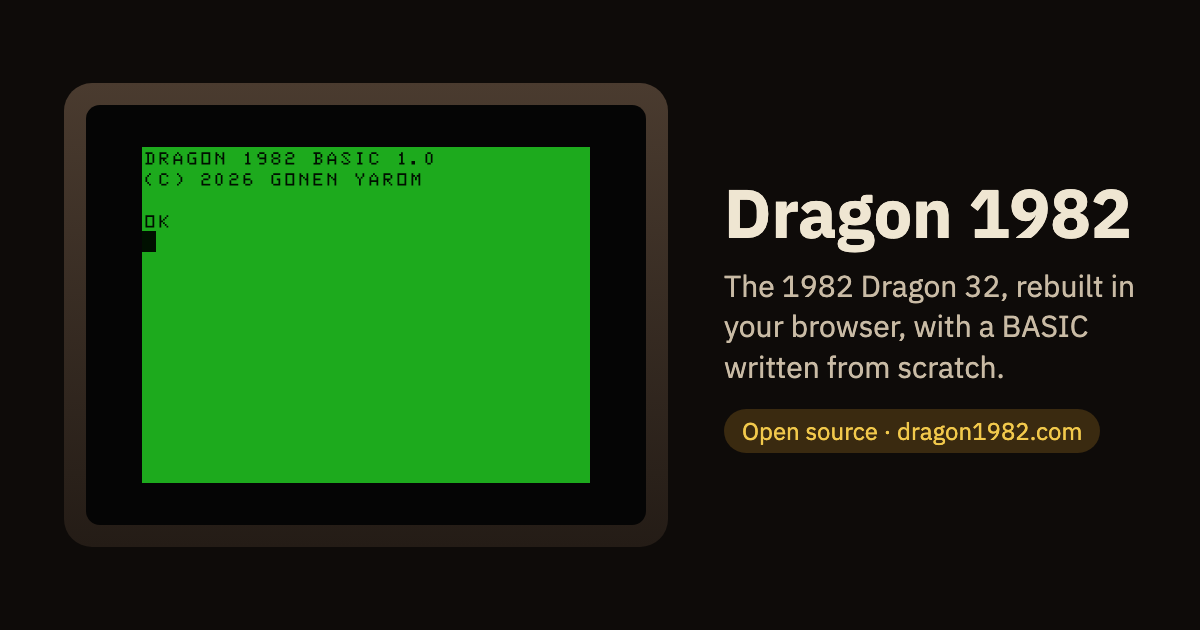
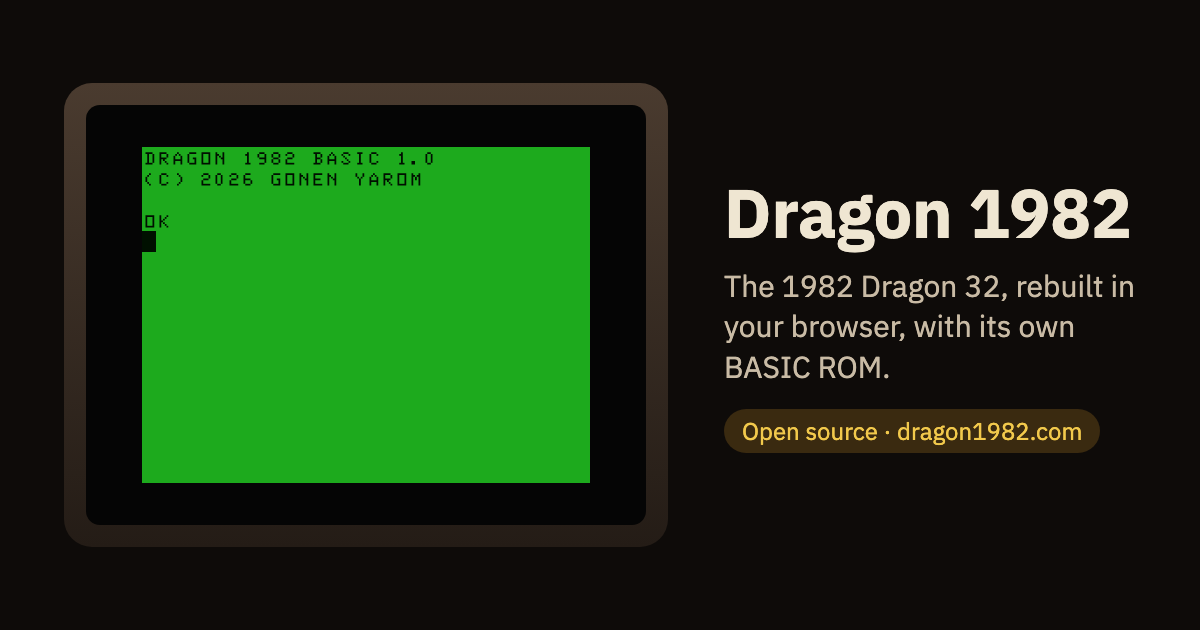
Wording: the ROM is "our own BASIC ROM", not "written from scratch" (its core is translated from Microsoft's open-source 6502 BASIC); machine page description and og:description, journey page 21.10 entry (he+en), and a re-rendered share image (Gonen: "כן", 29.10)
Claude-Session: https://claude.ai/code/session_012Ziobci2xMJv8N1mdnMtgd

Changed region(s): [[0.5858, 0.5429, 0.8325, 0.6032], [0.8017, 0.4825, 0.925, 0.5429]]

diff --git a/story/index.html b/story/index.html
@@ -85,7 +85,7 @@ a:focus-visible { outline: 3px solid var(--accent); outline-offset: 2px; }
 <section class="ep">
 <time datetime="2026-10-17">17.10.2026</time>
 <h2>המחשב האמיתי</h2>
-<p>יום ארוך. שיתפתי סרטון של המחשב בקבוצות של חובבי מחשבים ישנים, והאפליקציה קיבלה עיצוב חדש, גרסה באנגלית, דף נגישות והיכל תהילה עולמי. ובערב נולד "המחשב האמיתי": האמולטור <bdi>XRoar</bdi> מדמה את השבבים של ה-<bdi>Dragon</bdi>, ועליו רץ <bdi>BASIC</bdi> שכתבנו מאפס בשפת המכונה של המעבד 6809.</p>
+<p>יום ארוך. שיתפתי סרטון של המחשב בקבוצות של חובבי מחשבים ישנים, והאפליקציה קיבלה עיצוב חדש, גרסה באנגלית, דף נגישות והיכל תהילה עולמי. ובערב נולד "המחשב האמיתי": האמולטור <bdi>XRoar</bdi> מדמה את השבבים של ה-<bdi>Dragon</bdi>, ועליו רץ <bdi>BASIC</bdi> משלנו בשפת המכונה של המעבד 6809.</p>
 <p>כשבדקתי, ראיתי שמבחוץ זה נראה כמו המקור, אבל מבפנים לא. התוכנית נשמרה בזיכרון אחרת, והשבב התמלא עד שהוספנו שבב שני בחריץ המחסנית. החלטתי לבנות מחדש: על בסיס ה-<bdi>BASIC</bdi> ש-<bdi>Microsoft</bdi> פרסמה כקוד פתוח, ו"זהה" כולל גם את הזיכרון.</p>
 <p class="lesson"><strong>מה למדתי:</strong> קל להתלהב ממשהו שנראה נכון. הבדיקה האמיתית היא מה קורה מבפנים.</p>
 </section>

diff --git a/en/lab/1982/index.html b/en/lab/1982/index.html
@@ -4,11 +4,11 @@
 <meta charset="utf-8">
 <meta name="viewport" content="width=device-width, initial-scale=1">
 <title>Dragon 1982 — the Dragon machine (being built)</title>
-<meta name="description" content="The 1982 Dragon 32 home computer in your browser: the machine itself, running a BASIC we wrote from scratch, with a tape cabinet of games from the time, adventures, new community games and type-in programs.">
+<meta name="description" content="The 1982 Dragon 32 home computer in your browser: the machine itself, running our own BASIC ROM, with a tape cabinet of games from the time, adventures, new community games and type-in programs.">
 <meta property="og:type" content="website">
 <meta property="og:locale" content="en_GB">
 <meta property="og:title" content="Dragon 1982 — the Dragon machine (being built)">
-<meta property="og:description" content="The 1982 Dragon 32 home computer in your browser: the machine itself, running a BASIC we wrote from scratch, with a tape cabinet of games from the time, adventures, new community games and type-in programs.">
+<meta property="og:description" content="The 1982 Dragon 32 home computer in your browser: the machine itself, running our own BASIC ROM, with a tape cabinet of games from the time, adventures, new community games and type-in programs.">
 <meta property="og:url" content="https://dragon1982.com/en/lab/1982/">
 <meta property="og:image" content="https://dragon1982.com/assets/share/dragon1982.png">
 <meta property="og:image:width" content="1200">

diff --git a/en/story/index.html b/en/story/index.html
@@ -85,7 +85,7 @@ a:focus-visible { outline: 3px solid var(--accent); outline-offset: 2px; }
 <section class="ep">
 <time datetime="2026-10-17">17 October 2026</time>
 <h2>The real computer</h2>
-<p>A long day. I shared a video of the computer in groups of old-computer fans, and the app got a new design, an English version, an accessibility page and a world Hall of Fame. In the evening "the real computer" was born: the XRoar emulator emulates the Dragon's chips, and on it runs a BASIC we wrote from scratch in the 6809's machine language.</p>
+<p>A long day. I shared a video of the computer in groups of old-computer fans, and the app got a new design, an English version, an accessibility page and a world Hall of Fame. In the evening "the real computer" was born: the XRoar emulator emulates the Dragon's chips, and on it runs our own BASIC, in the 6809's machine language.</p>
 <p>When I checked, I saw that from the outside it looked like the original, but not on the inside. Programs were stored in memory differently, and the chip filled up until we added a second chip in the cartridge slot. I decided to rebuild: on the BASIC that Microsoft published as open source, and "identical" would include memory too.</p>
 <p class="lesson"><strong>What I learned:</strong> it's easy to get excited about something that looks right. The real test is what happens inside.</p>
 </section>
